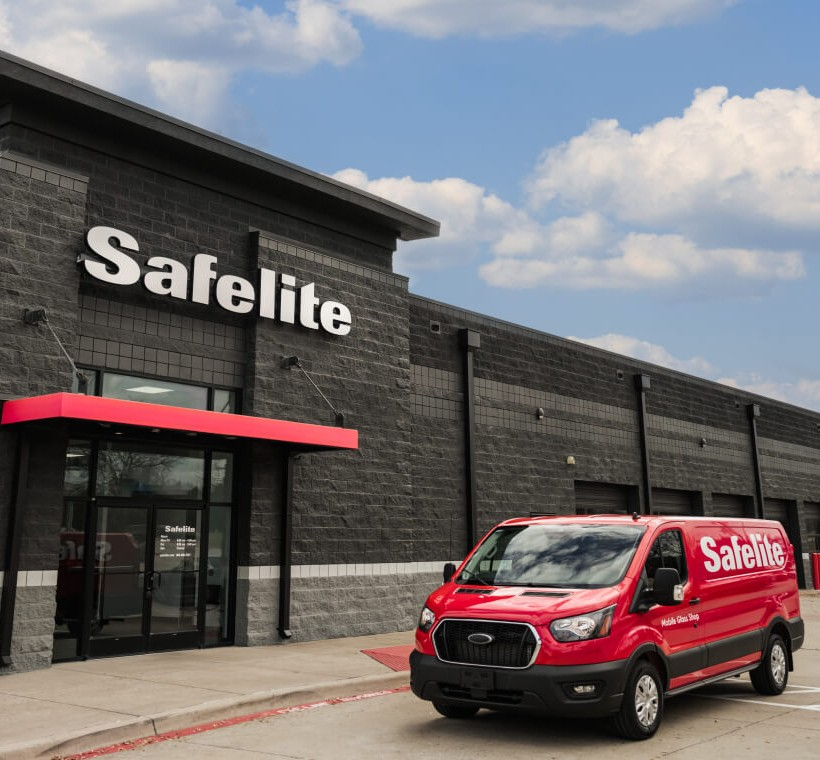
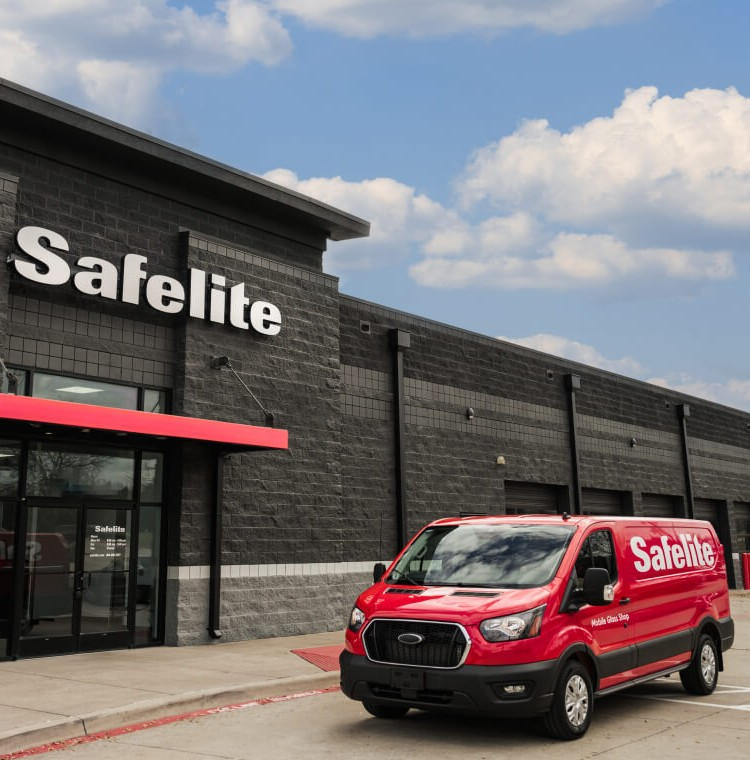
Title crop tighter with fade-in; board rebuilt as 3-col grid with full-height code rail
Storefront cropped to 750x760, sign and van dominant, reveal
restored on the img element so the light fade-in returns without
the centering conflict. Board: head+color share row one, color as
3x3 wide-rectangle chips, effects stacked soft/ring/card as narrow
bars, tokens.css rail absolute from color's top to the board floor,
filled with 28 real statements.

diff --git a/index.html b/index.html
@@ -8,8 +8,8 @@
   <link rel="preconnect" href="https://fonts.googleapis.com">
   <link rel="preconnect" href="https://fonts.gstatic.com" crossorigin>
   <link href="https://fonts.googleapis.com/css2?family=Urbanist:ital,wght@0,300;0,400;0,500;0,600;0,700;0,800&family=Geist+Mono:wght@400&display=swap" rel="stylesheet">
-  <link rel="stylesheet" href="css/tokens.css?v=125">
-  <link rel="stylesheet" href="css/slides.css?v=125">
+  <link rel="stylesheet" href="css/tokens.css?v=129">
+  <link rel="stylesheet" href="css/slides.css?v=129">
 </head>
 <body>
 
@@ -24,7 +24,7 @@
     <!-- 01 · Title -->
     <section class="slide slide--title">
       <div class="title-media">
-        <img src="assets/storefront.jpg" alt="A Safelite store with a Mobile Glass Shop van out front">
+        <img class="reveal" data-reveal="2" src="assets/storefront.jpg" alt="A Safelite store with a Mobile Glass Shop van out front">
       </div>
       <p class="eyebrow reveal">Product Design Director &middot; August 2026</p>
       <h1 class="display-hero reveal">Experiences that make booking <span class="grad-text">extraordinary.</span></h1>
@@ -78,7 +78,7 @@
           <h2 class="display-lg reveal">How this deck was built.</h2>
           <p class="body-lg reveal">I used Claude Code to scrape Safelite.com for CSS values. Then I built a tokens.css file that acted as the source of truth for every slide that follows, and called the Unsplash API to directly inject luxury travel photography. It's hosted on GitHub and served by Vercel.</p>
         </div>
-        <div class="token-group tg--span2 reveal" data-reveal="2">
+        <div class="token-group reveal" data-reveal="2">
           <span class="g-label">Color</span>
           <div class="color-grid">
             <div class="swatch"><div class="chip" style="background:var(--sl-white)"></div><span class="hx">FFFFFF</span></div>
@@ -117,26 +117,41 @@
         </div>
         <div class="token-group reveal" data-reveal="4">
           <span class="g-label">Effects</span>
-          <div class="fx-row">
+          <div class="fx-stack">
             <div class="swatch"><div class="fx fx--soft"></div><span class="hx">soft</span></div>
-            <div class="swatch"><div class="fx fx--glow"></div><span class="hx">card</span></div>
             <div class="swatch"><div class="fx fx--ring"></div><span class="hx">ring</span></div>
+            <div class="swatch"><div class="fx fx--glow"></div><span class="hx">card</span></div>
           </div>
         </div>
         <div class="token-group tg--code reveal" data-reveal="4">
           <span class="g-label">tokens.css</span>
           <div class="code-card"><span class="k">--sl-white</span>: #ffffff;
 <span class="k">--sl-gray-50</span>: #f5f7fa;
+<span class="k">--sl-gray-100</span>: #f4f4f4;
 <span class="k">--sl-gray-200</span>: #e8e9e9;
+<span class="k">--sl-gray-300</span>: #dcdcdc;
+<span class="k">--sl-gray-500</span>: #8b8d8e;
+<span class="k">--sl-gray-600</span>: #5e5f61;
 <span class="k">--sl-gray-700</span>: #4b4c4e;
+<span class="k">--sl-gray-950</span>: #222222;
 <span class="k">--sl-black</span>: #000000;
 <span class="k">--sl-blue</span>: #0070d1;
 <span class="k">--sl-red</span>: #db0020;
-<span class="k">--sl-shadow-card</span>: 0px 2px 4px rgba(0, 0, 0, 0.32), 0px 4px 12px rgba(0, 0, 0, 0.32);
 <span class="k">--sl-shadow-soft</span>: 0px 1px 4px rgba(55, 56, 57, 0.08), 0px 1px 2px rgba(55, 56, 57, 0.56);
+<span class="k">--sl-shadow-card</span>: 0px 2px 4px rgba(0, 0, 0, 0.32), 0px 4px 12px rgba(0, 0, 0, 0.32);
+<span class="k">--sl-radius-sm</span>: 8px;
 <span class="k">--sl-radius-md</span>: 12px;
+<span class="k">--sl-radius-lg</span>: 16px;
+<span class="k">--sl-radius-xl</span>: 24px;
+<span class="k">--sl-radius-xxl</span>: 32px;
 <span class="k">--sl-radius-cta</span>: 46px;
+<span class="k">--sl-radius-pill</span>: 800px;
+<span class="k">--sl-ease-site</span>: ease;
+<span class="k">--sl-ease-out</span>: ease-out;
+<span class="k">--sl-dur-quick</span>: 200ms;
 <span class="k">--sl-dur-standard</span>: 300ms;
+<span class="k">--sl-dur-slow</span>: 500ms;
+<span class="k">--sl-dur-slower</span>: 750ms;
 <span class="k">--sl-font-sans</span>: "Urbanist", "Helvetica Neue", Arial, sans-serif;</div>
         </div>
         <div class="token-group tg--span2 reveal" data-reveal="5">
@@ -392,7 +407,7 @@
 <div id="progress"></div>
 <div id="slide-counter">01 / 27</div>
 
-<script src="js/deck.js?v=125"></script>
+<script src="js/deck.js?v=129"></script>
 
 <!-- Photography via Unsplash (unsplash.com/license):
      bg-title.jpg (glacier bath) — Roan Lavery, unsplash.com/photos/BQLFUB4_EJw

diff --git a/css/slides.css b/css/slides.css
@@ -530,11 +530,25 @@ html, body {
 .token-board .head { grid-column: span 2; display: flex; flex-direction: column; gap: 16px; padding-right: 48px; }
 .slide--tokens .head h2 { white-space: nowrap; font-size: 52px; }
 .slide--tokens .head .body-lg { max-width: 900px; }
-.token-board { width: 100%; display: grid; grid-template-columns: repeat(4, 1fr); gap: 64px 40px; }
+.token-board {
+  position: relative;
+  width: 100%;
+  display: grid;
+  grid-template-columns: repeat(3, 1fr);
+  gap: 44px 40px;
+  padding-right: 384px;
+}
 .tg--span2 { grid-column: span 2; }
 .tg--span3 { grid-column: span 3; }
 .tg--span4 { grid-column: span 4; }
-.tg--code { grid-column: 4; grid-row: 2 / 4; }
+.tg--code {
+  position: absolute;
+  top: 0;
+  bottom: 0;
+  right: 0;
+  width: 344px;
+  grid-column: unset;
+}
 .tg--code .code-card { flex: 1; overflow: hidden; }
 .code-card {
   background: var(--dk-bg-raised);
@@ -562,7 +576,9 @@ html, body {
   color: var(--dk-text-primary);
 }
 .swatch-row { display: flex; justify-content: space-between; }
-.color-grid { display: grid; grid-template-columns: repeat(3, max-content); gap: 12px 40px; }
+.color-grid { display: grid; grid-template-columns: repeat(3, 1fr); gap: 12px 24px; }
+.color-grid .swatch { width: 100%; }
+.color-grid .chip { width: 100%; height: 56px; }
 .swatch { display: flex; flex-direction: column; gap: 8px; align-items: center; }
 .swatch .chip { width: 56px; height: 56px; border-radius: var(--dk-radius-sm); border: 1px solid var(--dk-border); }
 .swatch .hx {
@@ -621,6 +637,9 @@ html, body {
   color: var(--dk-text-soft);
 }
 .fx-row { display: flex; gap: 20px; }
+.fx-stack { display: flex; flex-direction: column; gap: 12px; }
+.fx-stack .swatch { width: 100%; }
+.fx-stack .fx { width: 100%; height: 40px; }
 .fx {
   width: 170px;
   height: 100px;
